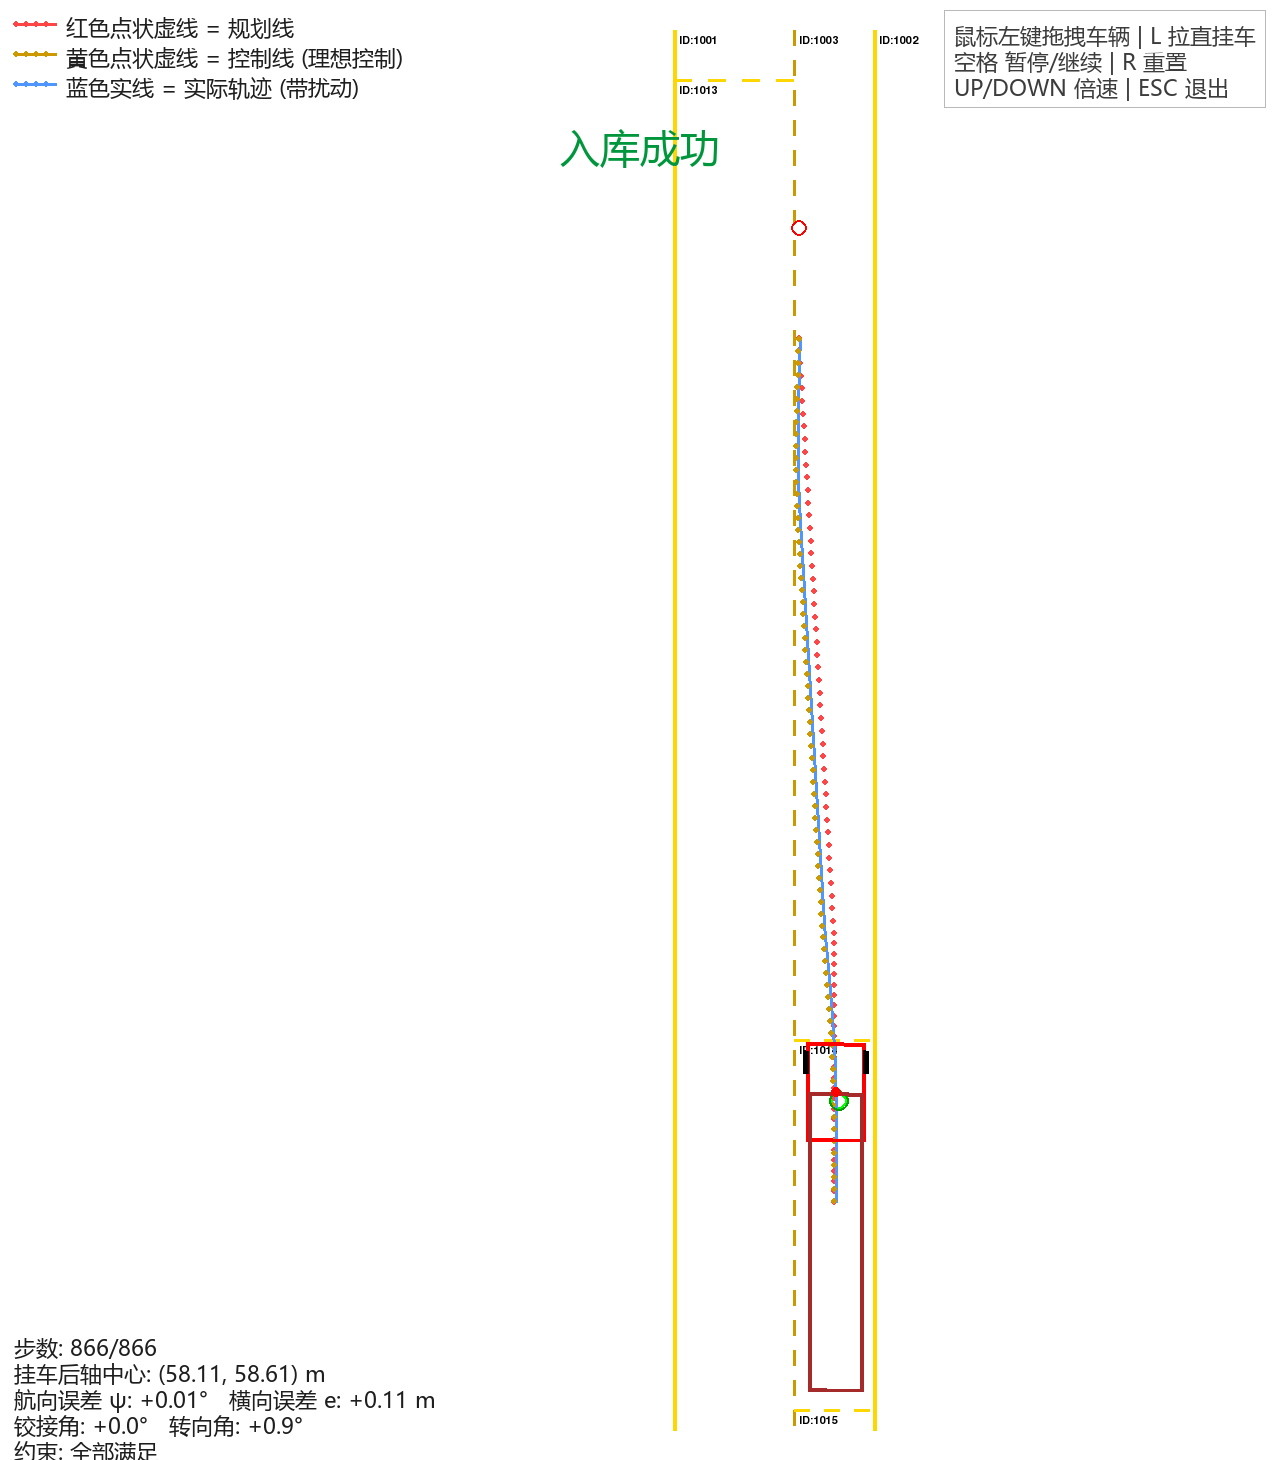
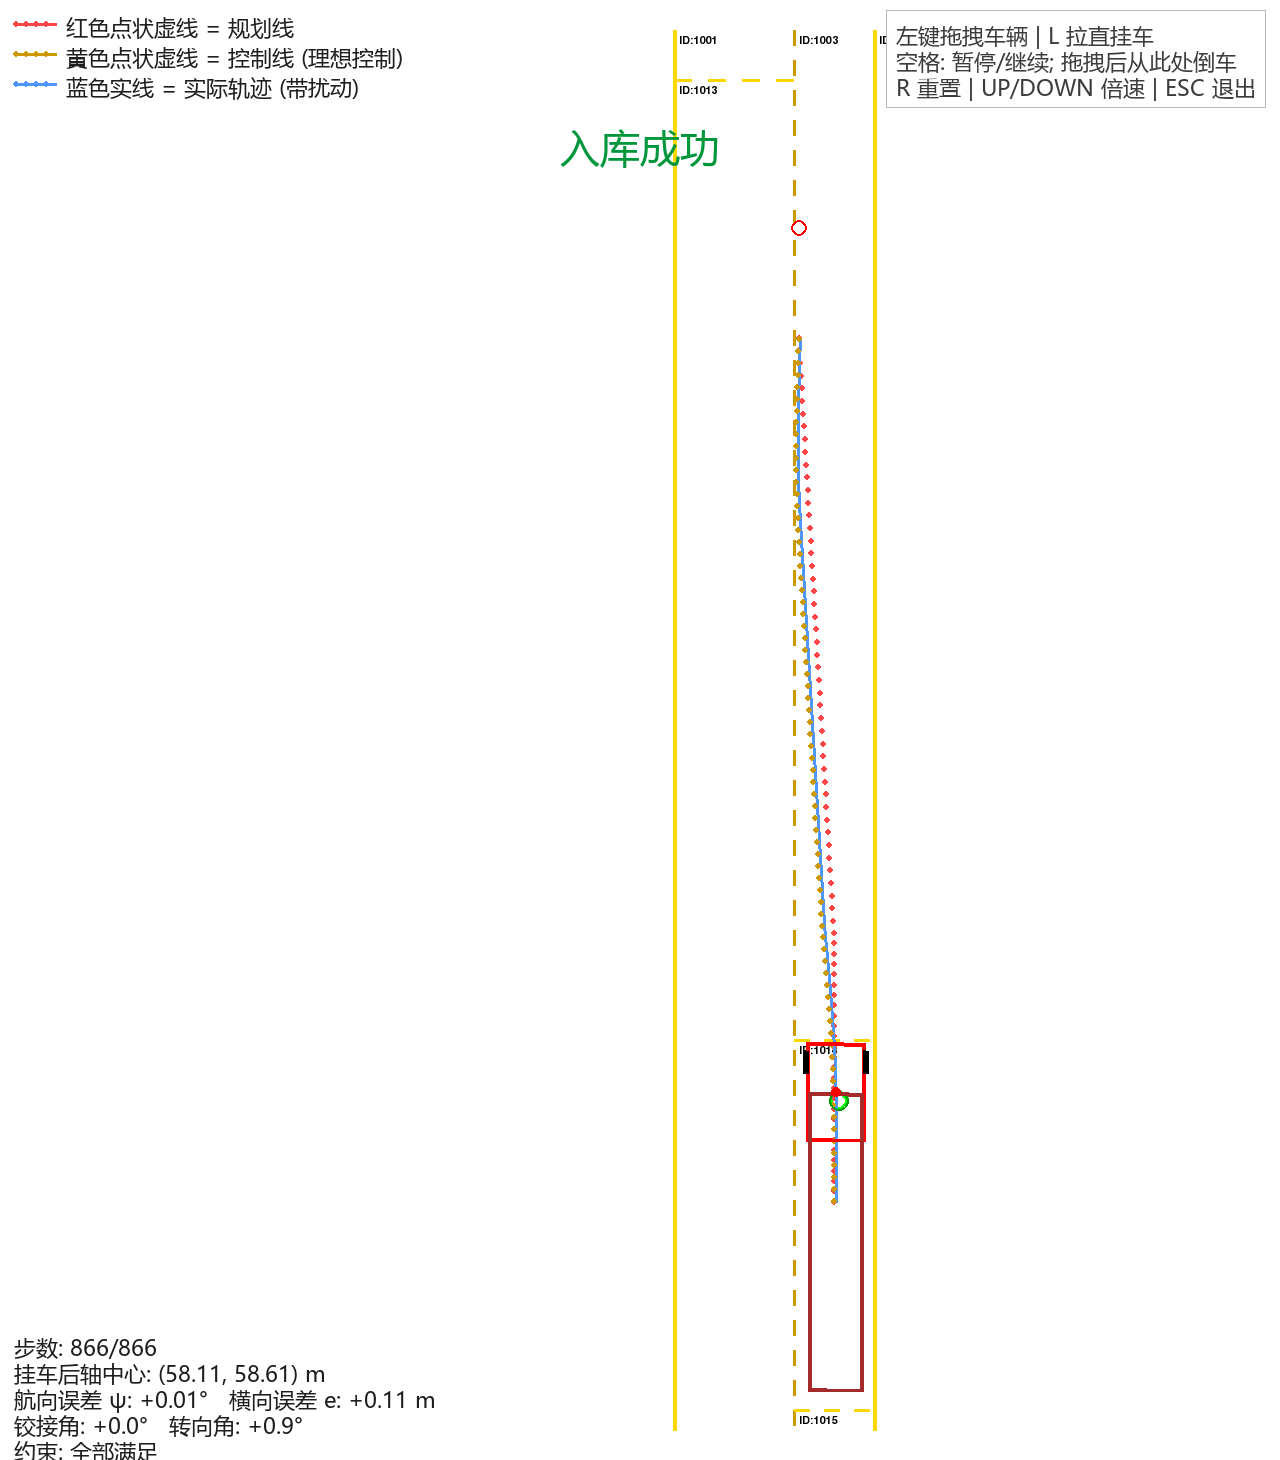
倒车入库: 拖拽后空格从当前位置重新倒车
- 空格以拖拽/拉直后的位姿为起点重新规划 S 曲线并倒车
- 重规划自动尝试多个摆直点, 取无角点违规的方案
- R 恢复默认起点演示; 起点标记随拖拽位置更新
- make run 默认拉起倒车入库窗口, 侧方位改为 make run-side

Changed region(s): [[0.6875, 0.0, 0.9688, 0.0925]]

diff --git a/another_solve/parking_three_lines.py b/another_solve/parking_three_lines.py
@@ -12,7 +12,7 @@
   .venv/bin/python another_solve/parking_three_lines.py --headless # 无头验证 + 保存截图
 
 按键: SPACE 暂停/继续 | R 重置 | UP/DOWN 倍速 | L 拉直挂车 | ESC 退出
-交互: 鼠标左键拖拽车辆移动位置 (拖拽/拉直后停在当前位姿, 空格继续回放)
+交互: 鼠标左键拖拽车辆移动位置; 拖拽/拉直后按 SPACE 从当前位姿重新规划并倒车
 """
 
 import os
@@ -39,6 +39,9 @@ TRAILER_LEN = 11.0          # 挂车轴距, 挂车后轴中心 = 铰点后方 L/
 
 NOISE_STD = 1.0             # 实际轨迹的转向噪声 (度/步)
 ACTUAL_SEED = 2
+REPLAN_G_DES_MAX_DEG = 15.0  # 拖拽起点重规划时放宽的目标铰接角上限 (度)
+REPLAN_JOIN_GAP = 5.5        # 拖拽起点 S 曲线摆直点距库口线的默认距离 (米)
+REPLAN_JOIN_GAPS = (3.0, 5.5, 7.0, 8.5)  # 重规划时依次尝试的摆直点
 
 # 库位约束 (线 1003=左 x=56, 1002=右 x=60, 1014=入口 y=50.5, 1015=底 y=69)
 SLOT_LEFT = ROAD_CENTER_X
@@ -74,22 +77,46 @@ CTRL_COLOR = (204, 153, 0)      # 黄 (加深以适配白色背景)
 ACTUAL_COLOR = (80, 150, 255)   # 蓝
 
 
-def plan_path():
+def plan_path(start_state=None, join_gap=REPLAN_JOIN_GAP):
     """规划线: 挂车后轴中心两段路径 (盯尾不盯头)
 
-    段1 斜线接近: 从起点横向平移到库位 x 上方 (库口线前留直行段)
-    段2 垂直入库: 与库位 1003/1002 平行直倒 (挂车摆直后直着进库)
+    默认起点: 斜线接近 + 垂直入库 (保持基线不变)
+    拖拽起点: 三次 Hermite S 曲线, 起终点切向竖直/沿当前挂车朝向,
+              平滑过渡后再垂直入库.
+
+    start_state: 拖拽后位姿 (x, y, h, g, s); None 表示默认起点
+    join_gap: 摆直点距库口线的距离 (米), 默认起点固定 5.5m
     """
-    tc_start = np.array([START_X, START_Y + TRAILER_LEN / 2])
     dock_x = (SLOT_LEFT + SLOT_RIGHT) / 2      # 对准库位中心, 左右边距对称
     tc_goal = np.array([dock_x, GOAL_Y + TRAILER_LEN / 2 - 0.45])  # 留出车尾余量
-    join_y = SLOT_TOP - 5.5                     # 库口线前 5.5m 摆直
+
+    if start_state is None:
+        tc_start = np.array([START_X, START_Y + TRAILER_LEN / 2])
+        join_y = SLOT_TOP - 5.5                 # 库口线前 5.5m 摆直
+        join = np.array([dock_x, join_y])
+        seg1 = np.linspace(tc_start, join, 140, endpoint=False)
+        return np.vstack([seg1, np.linspace(join, tc_goal, 80)])
+
+    th = start_state[2] + start_state[3]
+    tc_start = np.array([start_state[0] - TRAILER_LEN / 2 * np.cos(th),
+                         start_state[1] - TRAILER_LEN / 2 * np.sin(th)])
+    join_y = SLOT_TOP - join_gap
     join = np.array([dock_x, join_y])
 
-    n1, n2 = 140, 80
-    seg1 = np.linspace(tc_start, join, n1, endpoint=False)
-    seg2 = np.linspace(join, tc_goal, n2)
-    return np.vstack([seg1, seg2])
+    dy = join_y - tc_start[1]
+    if dy > 2.0:
+        # 起始切向 = 当前倒车方向; 终点切向竖直 (dx/dy = 0)
+        m0 = float(np.clip(np.cos(th) / np.sin(th), -0.6, 0.6)) if abs(np.sin(th)) > 0.3 else 0.0
+        n1 = max(40, int(round(dy / 0.212)))
+        t = np.linspace(0.0, 1.0, n1, endpoint=False)
+        h00 = 2 * t**3 - 3 * t**2 + 1
+        h10 = t**3 - 2 * t**2 + t
+        h01 = -2 * t**3 + 3 * t**2
+        xs = h00 * tc_start[0] + h10 * dy * m0 + h01 * dock_x
+        seg1 = np.stack([xs, tc_start[1] + t * dy], axis=1)
+    else:
+        seg1 = np.empty((0, 2))                 # 起点已到库口附近, 直接垂直段
+    return np.vstack([seg1, np.linspace(join, tc_goal, 80)])
 
 
 def local_psi_ref(path, y):
@@ -151,18 +178,28 @@ class ParkingController:
         return np.rad2deg(swa), e, psi    # 原始指令, 速率限制在执行层统一做
 
 
-def run_once(path, noise_std=0.0, seed=0, **ckwargs):
-    """跑一次倒车入库. noise_std>0 时加入初始扰动与转向噪声 (实际轨迹)"""
+def run_once(path, noise_std=0.0, seed=0, start_state=None, **ckwargs):
+    """跑一次倒车入库. noise_std>0 时加入初始扰动与转向噪声 (实际轨迹)
+
+    start_state=(x, y, h, g, s_deg) 时从该位姿直接起步 (拖拽后重新倒车),
+    否则从默认起点并在 noise_std>0 时叠加初始扰动.
+    """
     rng = np.random.default_rng(seed)
     truck = TruckTrailerOnAxle()
-    x0 = START_X + rng.normal(0, 0.15) if noise_std else START_X
-    h0 = INIT_HEADING_RAD + rng.normal(0, np.deg2rad(0.5)) if noise_std else INIT_HEADING_RAD
-    truck.set_state([x0, START_Y, h0, 0.0])
+    if start_state is not None:
+        s0 = float(start_state[4]) if len(start_state) > 4 else 0.0
+        truck.set_state(start_state[:4])
+        truck.s_deg = s0
+    else:
+        x0 = START_X + rng.normal(0, 0.15) if noise_std else START_X
+        h0 = INIT_HEADING_RAD + rng.normal(0, np.deg2rad(0.5)) if noise_std else INIT_HEADING_RAD
+        truck.set_state([x0, START_Y, h0, 0.0])
+        s0 = 0.0
     truck.v_mps = V_REVERSE
 
     controller = ParkingController(path, **ckwargs)
     tc_goal_y = GOAL_Y + TRAILER_LEN / 2 - 0.45          # 与 plan_path 的 tc_goal 一致
-    prev_applied = 0.0                                   # 执行器上一拍实际转角 (度)
+    prev_applied = s0                                    # 执行器上一拍实际转角 (度)
 
     states = []       # 每步 (x, y, h, g, s_deg)
     tc_states = []    # 每步挂车后轴中心
@@ -209,11 +246,31 @@ def run_once(path, noise_std=0.0, seed=0, **ckwargs):
     }
 
 
-def load_runs():
-    """离线计算 规划线 / 控制线(理想) / 实际轨迹(带噪) — 均为挂车后轴中心轨迹"""
-    path = plan_path()
-    ideal = run_once(path, noise_std=0.0)
-    actual = run_once(path, noise_std=NOISE_STD, seed=ACTUAL_SEED)
+def load_runs(start_state=None):
+    """离线计算 规划线 / 控制线(理想) / 实际轨迹(带噪) — 均为挂车后轴中心轨迹
+
+    start_state 非空时以该位姿为起点重新规划 (空格从拖拽处倒车):
+    依次尝试不同摆直点, 取首个无角点违规的方案; 全部失败时取违规最少者.
+    """
+    if start_state is None:
+        path = plan_path()
+        ideal = run_once(path, noise_std=0.0)
+        actual = run_once(path, noise_std=NOISE_STD, seed=ACTUAL_SEED)
+    else:
+        best = None
+        for gap in REPLAN_JOIN_GAPS:
+            cand_path = plan_path(start_state, join_gap=gap)
+            cand_ideal = run_once(cand_path, noise_std=0.0, start_state=start_state,
+                                  g_des_max_deg=REPLAN_G_DES_MAX_DEG)
+            key = (0 if cand_ideal['success'] else 1, len(cand_ideal['violations']))
+            if best is None or key < best[0]:
+                best = (key, cand_path, cand_ideal)
+            if key == (0, 0):
+                break
+        _, path, ideal = best
+        actual = run_once(path, noise_std=NOISE_STD, seed=ACTUAL_SEED,
+                          start_state=start_state,
+                          g_des_max_deg=REPLAN_G_DES_MAX_DEG)
     return {
         'plan': path[:, :2],
         'control': ideal['tc_states'],
@@ -292,15 +349,15 @@ def point_on_truck(truck, wx, wy):
 
 
 HELP_LINES = (
-    "鼠标左键拖拽车辆 | L 拉直挂车",
-    "空格 暂停/继续 | R 重置",
-    "UP/DOWN 倍速 | ESC 退出",
+    "左键拖拽车辆 | L 拉直挂车",
+    "空格: 暂停/继续; 拖拽后从此处倒车",
+    "R 重置 | UP/DOWN 倍速 | ESC 退出",
 )
 
 
-def draw_help(screen, font_small, view_w, view_h):
+def draw_help(screen, font_small, view_w, view_h, lines=HELP_LINES):
     """右上角常驻快捷键说明 (浅底框, 保证文字不被场景标线干扰)"""
-    surfs = [font_small.render(t, True, (60, 60, 60)) for t in HELP_LINES]
+    surfs = [font_small.render(t, True, (60, 60, 60)) for t in lines]
     pad, lh = 10, 26
     w = max(s.get_width() for s in surfs) + 2 * pad
     h = lh * len(surfs) + 2 * pad
@@ -375,7 +432,7 @@ def render_frame(screen, runs, idx, road, font_small, font_big, override=None, c
     cur_bad = corner_violations(truck.get_corner_positions())
     if manual:
         lines = [
-            "手动位姿: 左键拖拽移动车辆 | L 拉直挂车",
+            "手动位姿: 左键拖拽 | L 拉直 | 空格从此处倒车",
             f"牵引车参考点: ({x:.2f}, {y:.2f}) m",
             f"挂车后轴中心: ({tc_x:.2f}, {tc_y:.2f}) m",
             f"航向: {np.rad2deg(h):+.1f}°   铰接角: {np.rad2deg(g):+.1f}°   "
@@ -399,7 +456,7 @@ def render_frame(screen, runs, idx, road, font_small, font_big, override=None, c
     draw_help(screen, font_small, view_w, view_h)
 
     if manual:
-        surf = font_small.render("手动位姿 (空格继续回放 / R 重置)", True, (70, 90, 170))
+        surf = font_small.render("手动位姿 (空格 从此处倒车 / R 重置)", True, (70, 90, 170))
         screen.blit(surf, (view_w // 2 - surf.get_width() // 2, 120))
     elif done:
         status = "入库成功" if runs['actual']['success'] else "未成功停入"
@@ -447,7 +504,8 @@ def main():
     font_big = load_font(40)
 
     print("正在计算规划与控制轨迹...")
-    runs = load_runs()
+    base_runs = load_runs()
+    runs = base_runs
     total = len(runs['actual']['states'])
     print(f"规划点 {len(runs['plan'])}, 控制线 {len(runs['control'])} 点, "
           f"实际轨迹 {total} 步, 入库成功={runs['actual']['success']}")
@@ -481,16 +539,28 @@ def main():
                 if event.key == pygame.K_ESCAPE:
                     running = False
                 elif event.key == pygame.K_SPACE:
-                    paused = not paused
-                    if not paused:              # 继续回放时退出手动位姿
+                    if override is not None:    # 以拖拽/拉直后的位姿为起点重新倒车
+                        start = list(override)
+                        runs = load_runs(start_state=start)
+                        total = len(runs['actual']['states'])
+                        idx = 0
                         override = None
                         cam_hold = None
                         dragging = False
+                        paused = False
+                        road.set_start_position(start[0], start[1])
+                        print(f"从手动位姿 ({start[0]:.2f}, {start[1]:.2f}) 重新倒车: "
+                              f"{total} 步, 入库成功={runs['actual']['success']}")
+                    else:
+                        paused = not paused
                 elif event.key == pygame.K_r:
+                    runs = base_runs
+                    total = len(runs['actual']['states'])
                     idx = 0
                     override = None
                     cam_hold = None
                     dragging = False
+                    road.set_start_position(START_X, START_Y)
                 elif event.key == pygame.K_l:   # 拉直: 铰接角归零
                     if override is None:
                         override = list(cur_state)

diff --git a/another_solve/parking_parallel.py b/another_solve/parking_parallel.py
@@ -39,6 +39,12 @@ DOCK_X = (SLOT_P_LEFT + SLOT_P_RIGHT) / 2     # 52.0
 TC_GOAL_Y = 54.5                              # 挂车后轴中心目标 y (车尾留 0.5m)
 JOIN_Y = TC_GOAL_Y                            # S 曲线直接延伸到停车位 (拉长过渡段降峰值铰接角)
 
+HELP_LINES_SIDE = (
+    "鼠标左键拖拽车辆 | L 拉直挂车",
+    "空格 暂停/继续 | R 重置",
+    "UP/DOWN 倍速 | ESC 退出",
+)
+
 
 def smoothstep(s):
     return s * s * s * (10 - 15 * s + 6 * s * s)
@@ -226,7 +232,7 @@ def render_frame(screen, runs, idx, road, font_small, font_big, override=None, c
                     (14, view_h - 24 - (len(lines) - 1 - i) * 26))
 
     # 操作提示 (右上角)
-    draw_help(screen, font_small, view_w, view_h)
+    draw_help(screen, font_small, view_w, view_h, HELP_LINES_SIDE)
 
     if manual:
         surf = font_small.render("手动位姿 (空格继续回放 / R 重置)", True, (70, 90, 170))
